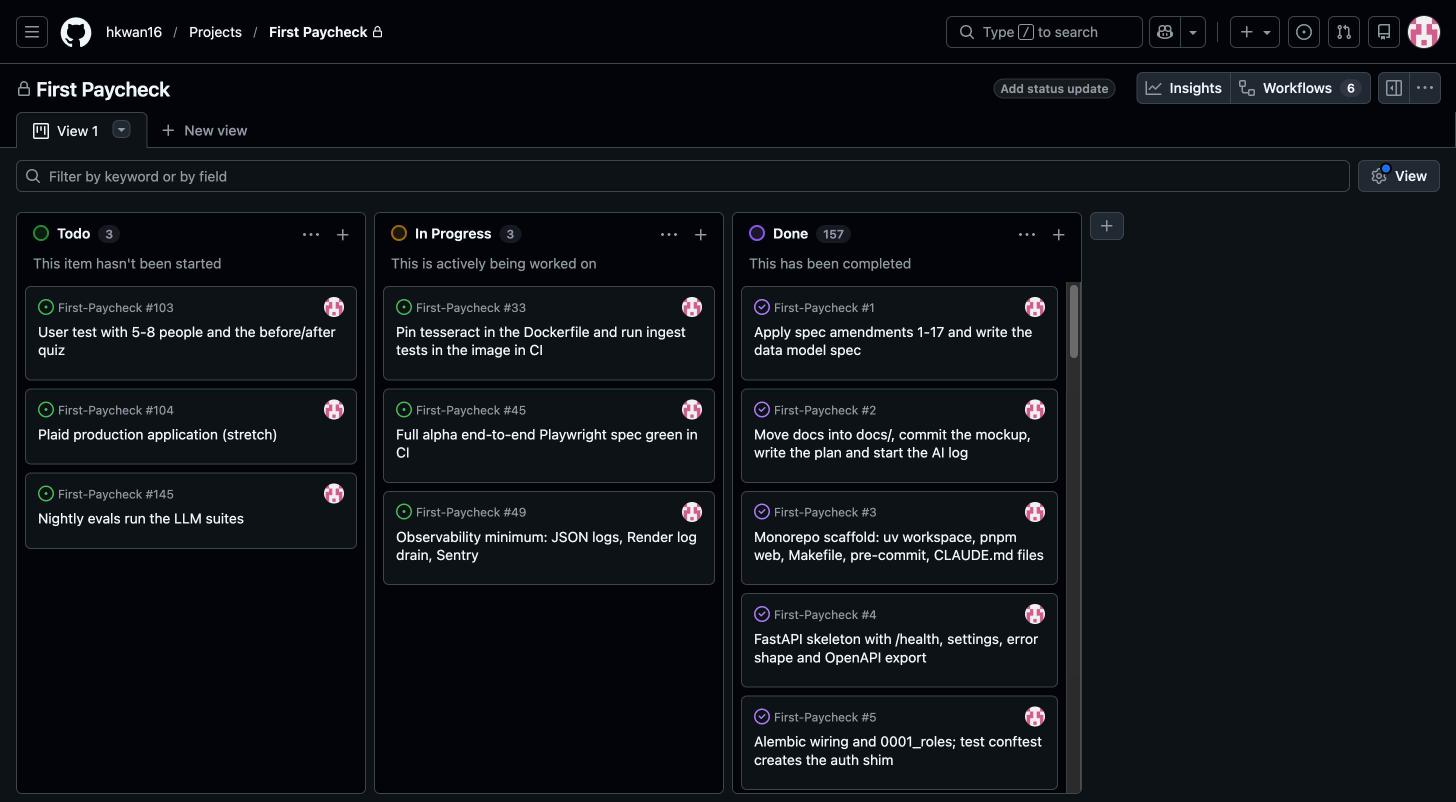
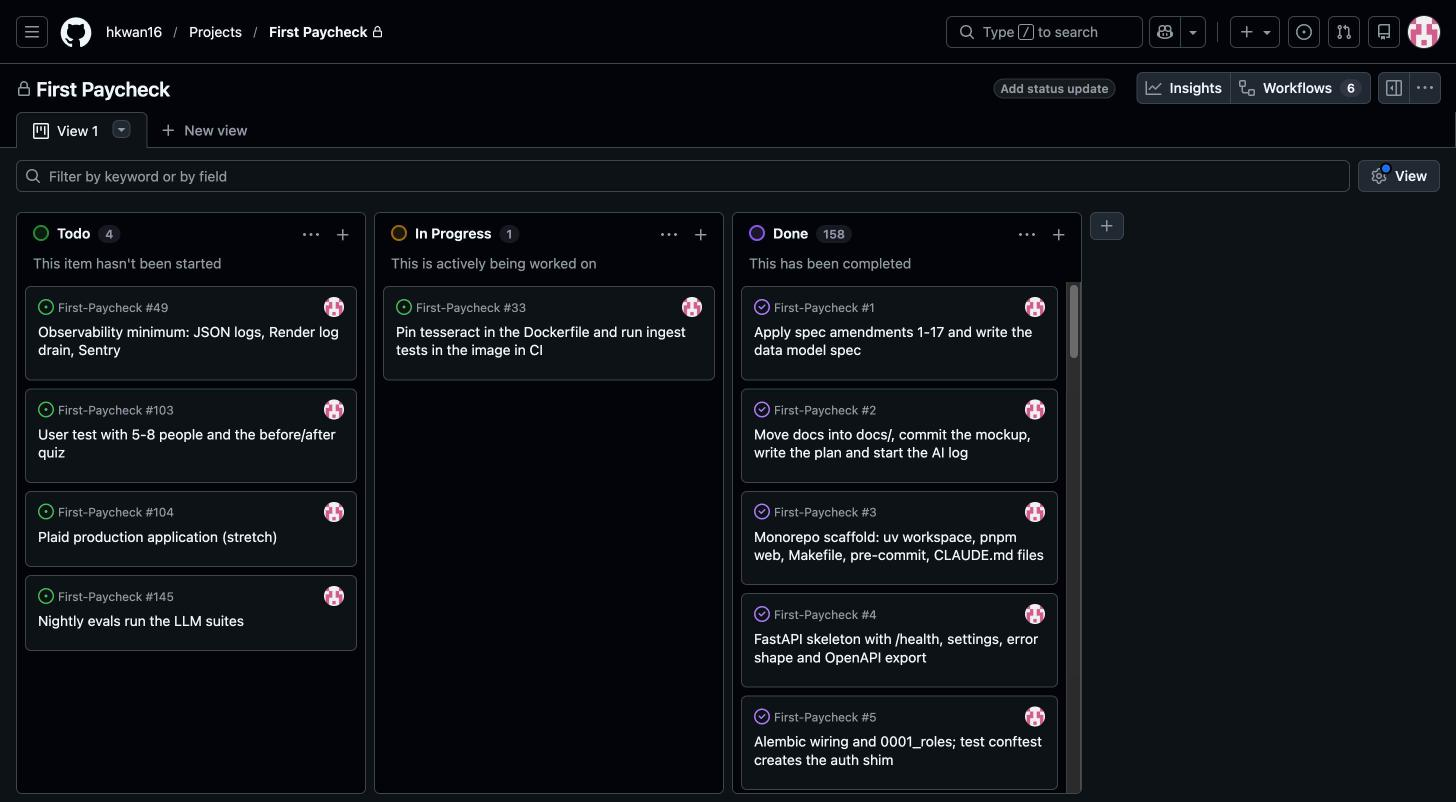
docs: #45 is done and #49 is deferred; the alpha document and its board after the sync

diff --git a/docs/alpha/README.md b/docs/alpha/README.md
@@ -50,26 +50,24 @@ Every feature on the path above is functional in production. The table lists wha
 | Bank data | Plaid's sandbox only. Production access to real banks (#104) is a stretch goal and has not started. |
 | Screen size | Desktop only, since November 1. The layout still adapts to a narrow window, but nothing is designed or tested for a phone. |
 | LLM evals | Every LLM suite has a measured baseline from live runs. The nightly workflow runs only the free suites, because the API key is not yet a GitHub secret (#145). |
-| Alpha end-to-end spec in CI (#45) | It runs on every pull request, but skips the bank-linking steps because CI has no Plaid keys. |
-| Error reporting (#49) | JSON logs and the Sentry hooks are in the code. A forced production error has not yet been traced to Sentry. |
+| Error reporting (#49) | JSON logs and the Sentry hooks are in the code, but Sentry is not turned on in production. That is deferred until after the alpha. |
 | User test with 5 to 8 people (#103) | The kit is written (`docs/user-test/`), but the sessions have not run. |
 
 ## Documented backlog
 
 The backlog is a GitHub Project: <https://github.com/users/hkwan16/projects/1>, with the issues at <https://github.com/hkwan16/First-Paycheck/issues>. Each issue has a title, a description that ends with its definition of done, a status (To Do, In Progress, or Done), a priority (High, Medium, or Low), a milestone, and area labels. Every issue is assigned to me, since this is a solo project. The source of truth is [`docs/backlog.yaml`](../backlog.yaml), which `scripts/sync_backlog.py` syncs to GitHub, so the board follows the repo.
 
-The backlog holds 163 issues: 157 done, 3 in progress, and 3 to do (56 High, 91 Medium, and 16 Low). Milestones M0 to M10 are ordered by dependency, and each one ends with a deployed product. Since October 22, 32 issues have been added, most of them bugs found by testing production end to end. The last was found while recording the demo: a pay stub confirmed twice counted its pay twice (#190), fixed the same day. The six open issues are the ones that need something from outside the repo:
+The backlog holds 163 issues: 158 done, 1 in progress, and 4 to do (56 High, 91 Medium, and 16 Low). Milestones M0 to M10 are ordered by dependency, and each one ends with a deployed product. Since October 22, 32 issues have been added, most of them bugs found by testing production end to end. The last was found while recording the demo: a pay stub confirmed twice counted its pay twice (#190), fixed the same day. The five open issues are the ones that need something from outside the repo or are deferred:
 
 | Issue | Status | What it waits on |
 |---|---|---|
 | #33 Tesseract pinned in Docker and the ingest tests required in CI | In progress | Marking the `ingest-in-docker` job as a required check |
-| #45 Full alpha end-to-end spec green in CI | In progress | Plaid sandbox keys as GitHub secrets |
-| #49 JSON logs, a Render log drain, and Sentry | In progress | The Sentry DSN and log drain in Render, and a forced error to trace |
+| #49 JSON logs, a Render log drain, and Sentry | To do | Deferred: the Sentry DSN and log drain in Render, and a forced error to trace |
 | #103 User test with 5 to 8 people | To do | Participants |
 | #104 Plaid production application | To do | An application to Plaid (stretch) |
 | #145 Nightly LLM evals | To do | The API key as a GitHub secret, about $1.30 a day |
 
-![The GitHub Project board on November 1: 3 to do, 3 in progress, and 157 done](screenshots/backlog.jpg)
+![The GitHub Project board on November 1: 4 to do, 1 in progress, and 158 done](screenshots/backlog.jpg)
 
 ## Brief reflection on AI tool integration
 
@@ -93,4 +91,4 @@ The rules for the AI live in the repo's `CLAUDE.md` files: money math only in `a
 - **A test can pass without testing anything.** When the product became desktop only, the test for issue 172 (a step link should land at the top of the next page) passed at desktop size even with the fix removed. It now runs in a window where the bug appears and fails if that window stops showing it.
 - **Parallel agents need a shared map.** Two agents' migrations kept revising the same parent until the briefs named the current head. Merges conflicted in shared files, and `tsc` in the merge gate caught two wrong resolutions.
 
-The next steps are the user test with 5 to 8 people, the nightly LLM evals, and finishing the three in-progress issues above before the final release.
+The next steps are the user test with 5 to 8 people, the nightly LLM evals, and making the `ingest-in-docker` job a required check (#33) before the final release.
